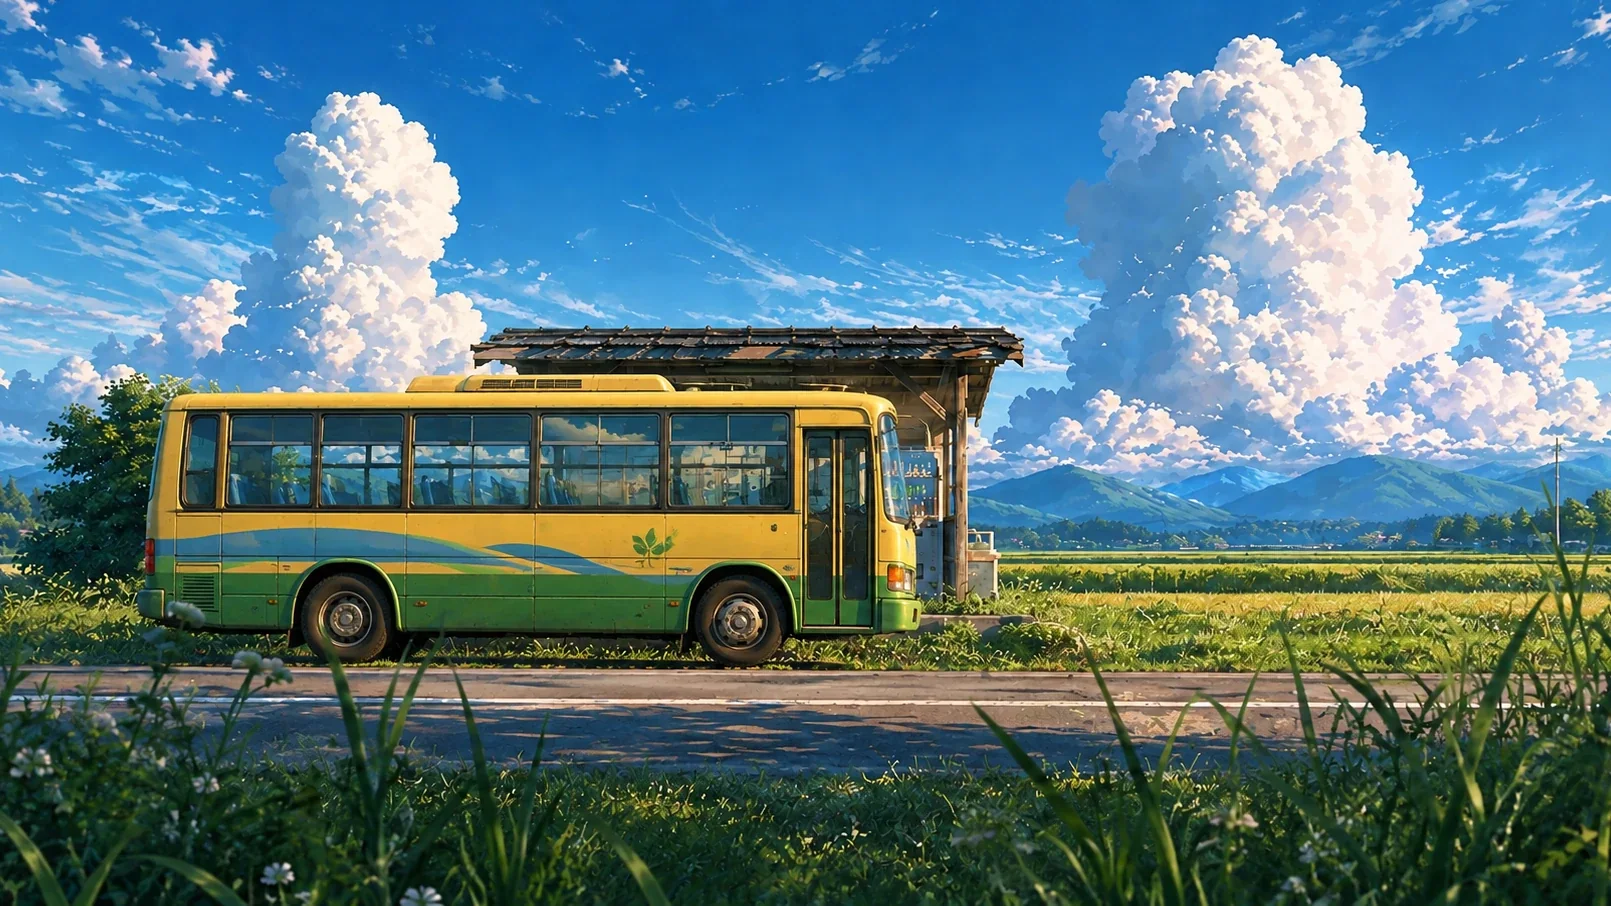
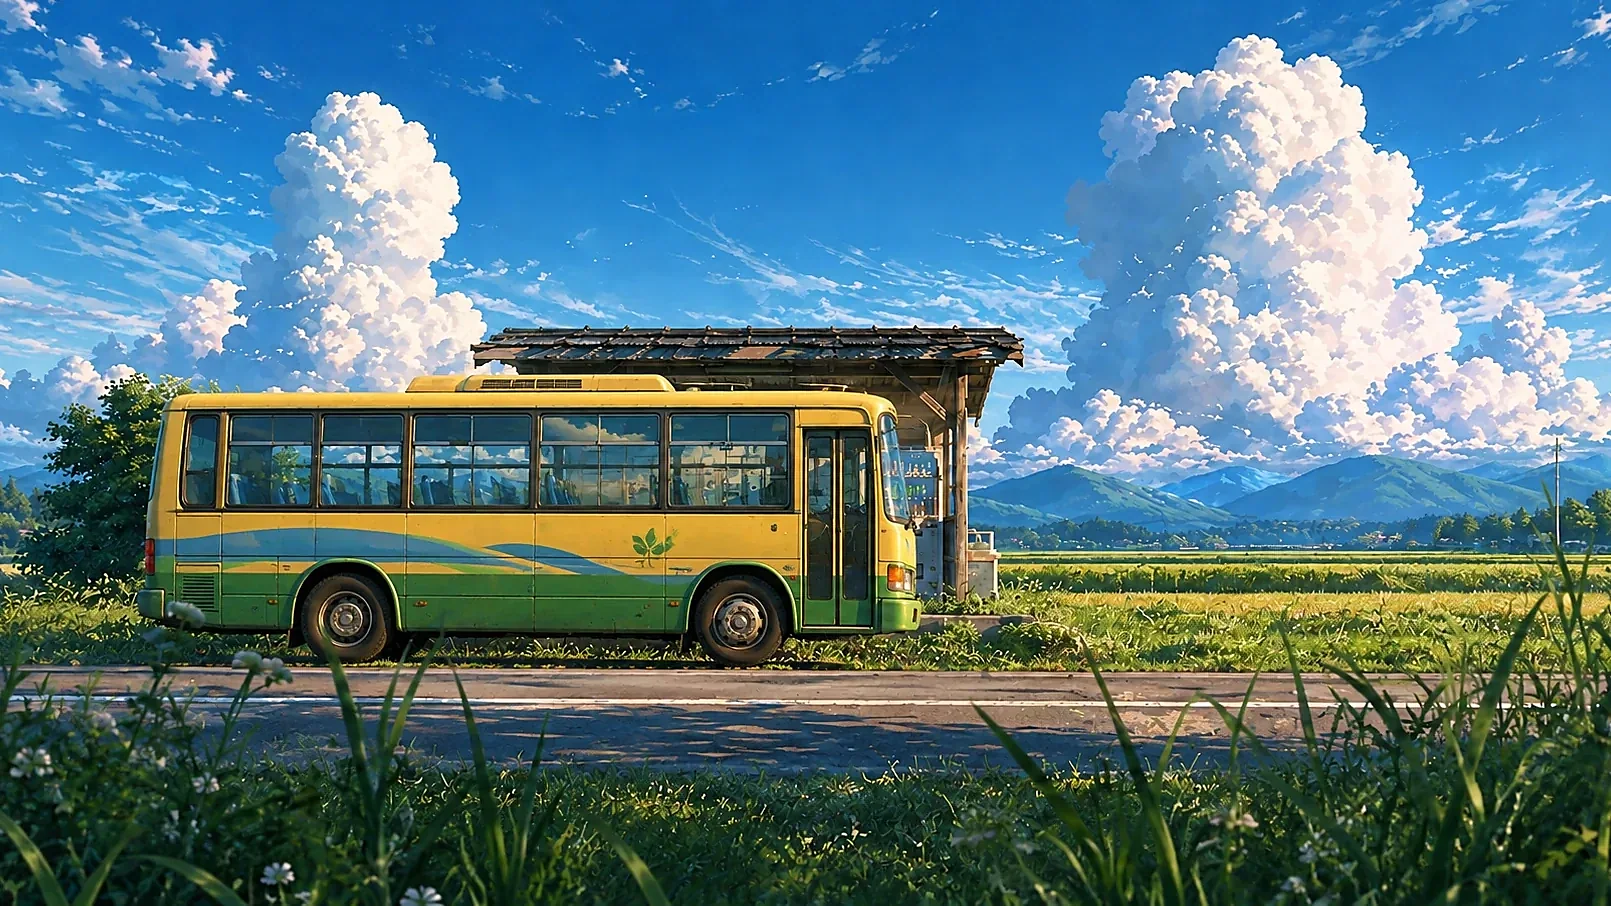
Sharper visuals: gently sharpened scene and book pictures; scene drawn at higher resolution on phones; "for Varsha" at full sharpness on phones
Claude-Session: https://claude.ai/code/session_01GJaRVwFUzLdJdZtTLcZahP

diff --git a/src/scenes/BusStop.tsx b/src/scenes/BusStop.tsx
@@ -363,7 +363,7 @@ export function BusStop({ flying, entered }: Props) {
 
     // if the device is struggling, draw at a lower resolution until it keeps up
     // (phones start a step lower: their screens are dense, and the painting is soft anyway)
-    const QUALITY = isTouch ? [1.25, 1.0, 0.8, 0.6] : [1.5, 1.1, 0.8, 0.6];
+    const QUALITY = isTouch ? [1.5, 1.2, 1.0, 0.8, 0.6] : [1.5, 1.1, 0.8, 0.6];
     let quality = 0, slowFrames = 0, slowTime = 0;
     const setQuality = (q: number) => {
       quality = q;
@@ -1322,7 +1322,7 @@ export function BusStop({ flying, entered }: Props) {
     await document.fonts.load('700 100px "Playfair Display"').catch(() => {});
     // (the roses take the colour of her flowers; green stems, white letters)
     const rose = { Tulip: '#ff2e4d', Lily: '#ff5a3c', Lotus: '#ff6f9f' }[kind];
-    const tg = new TypeGarden(gc, { palette: ['night', 'transparent', rose, '#3f9a52', '#fff4ea', '#f7f4ff', '#06210f'], flowers: [rose, '#ff8fb1', '#f6c12e', '#f39a6b', '#b48cf0'], transparent: true, interactive: false, caret: true, scale: 0.3, density: 0.7, legible: true, maxDpr: isTouch ? 1.5 : 2, font: '"Playfair Display",Georgia,serif' });
+    const tg = new TypeGarden(gc, { palette: ['night', 'transparent', rose, '#3f9a52', '#fff4ea', '#f7f4ff', '#06210f'], flowers: [rose, '#ff8fb1', '#f6c12e', '#f39a6b', '#b48cf0'], transparent: true, interactive: false, caret: true, scale: 0.3, density: 0.7, legible: true, maxDpr: 2, font: '"Playfair Display",Georgia,serif' });
     gardenRef.current = tg;
     tg.start();
     for (const ch of content.finale.gardenWords) { tg.type(ch); await wait(ch === ' ' ? 0.32 : 0.2); }
